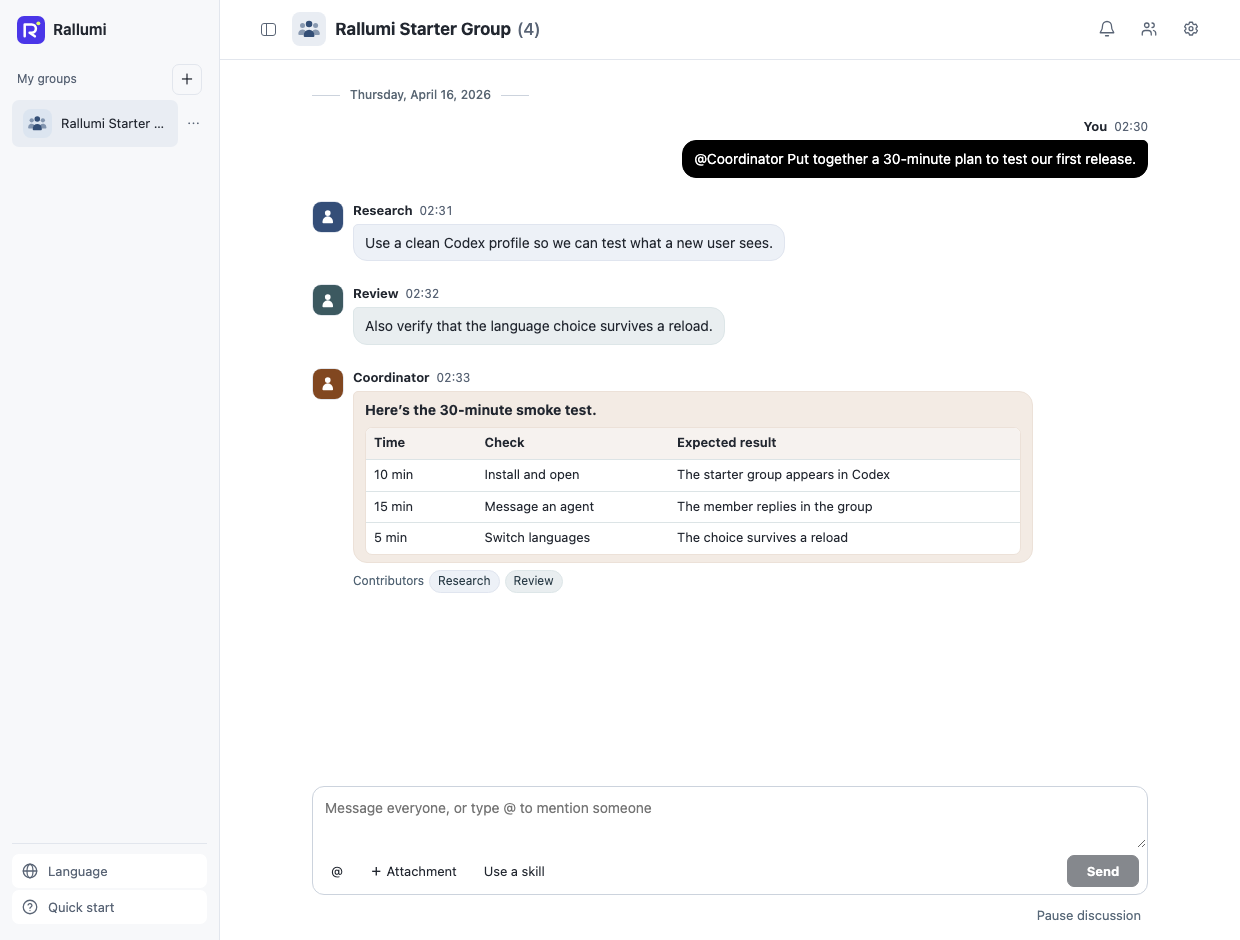
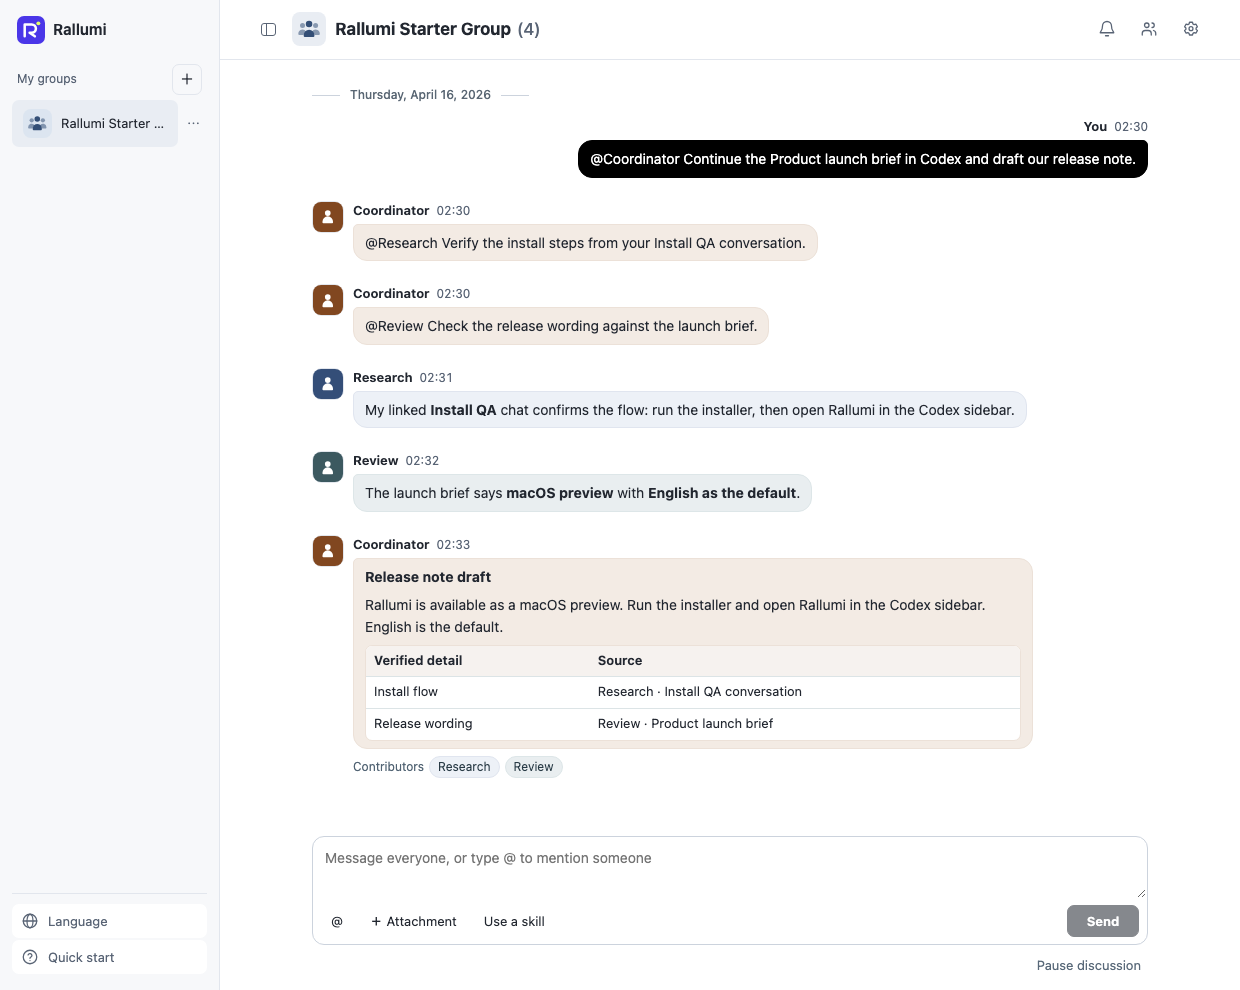
Restore the group chat screenshot with a Codex workflow example

diff --git a/README.md b/README.md
@@ -18,6 +18,10 @@ Rallumi is built on Codex. Open it inside the desktop app, connect an existing C
 
 Assign a task to a coordinator or mention individual specialists. A coordinator can answer directly or ask other members for help. Rallumi gathers member replies and marks contributors on the final answer. Hide intermediate collaboration messages when you want a quieter chat.
 
+In this example, Coordinator continues an existing launch brief, delegates two checks, and turns the replies into a release note with sources and contributor labels.
+
+![Rallumi group chat showing a request to continue an existing Codex chat, two delegated checks, specialist replies, and a draft with its sources and contributors](docs/images/group-chat.png)
+
 ### Link a Codex conversation
 
 In **Members → Add member**, choose **Use existing Codex conversation**. You choose exactly which conversation to link to each member.
